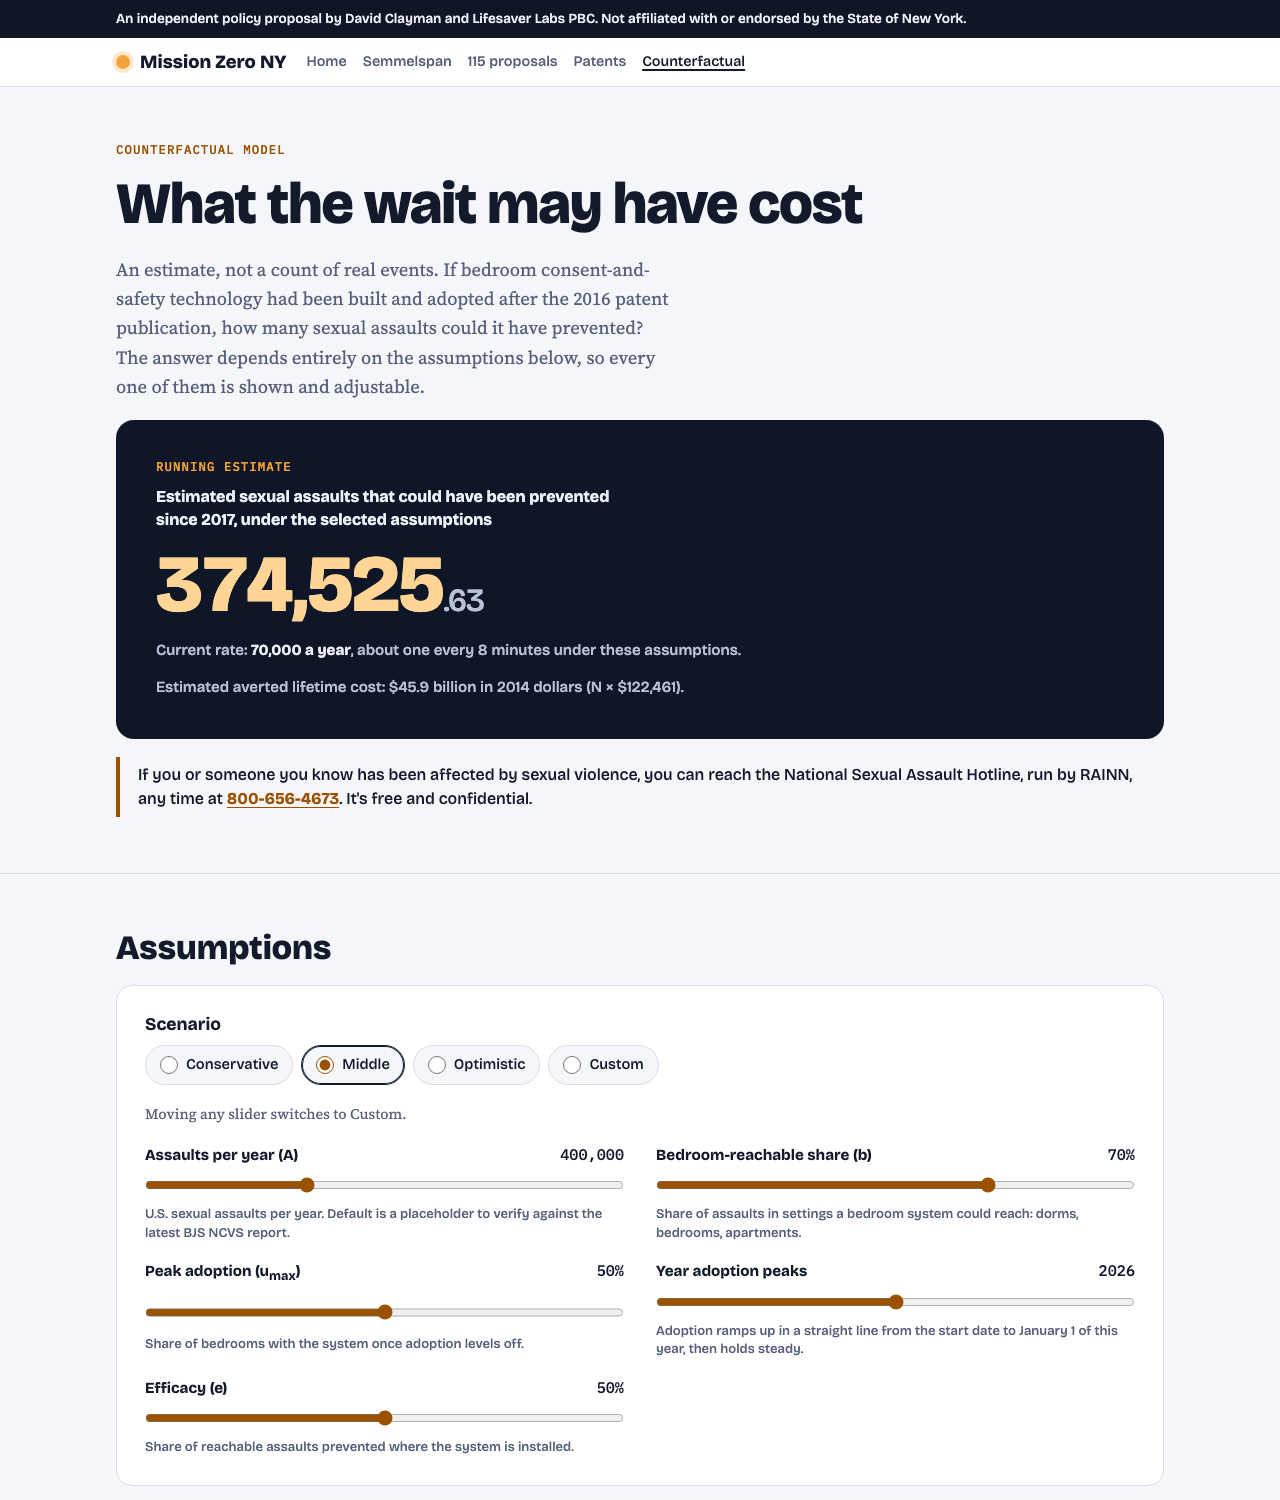
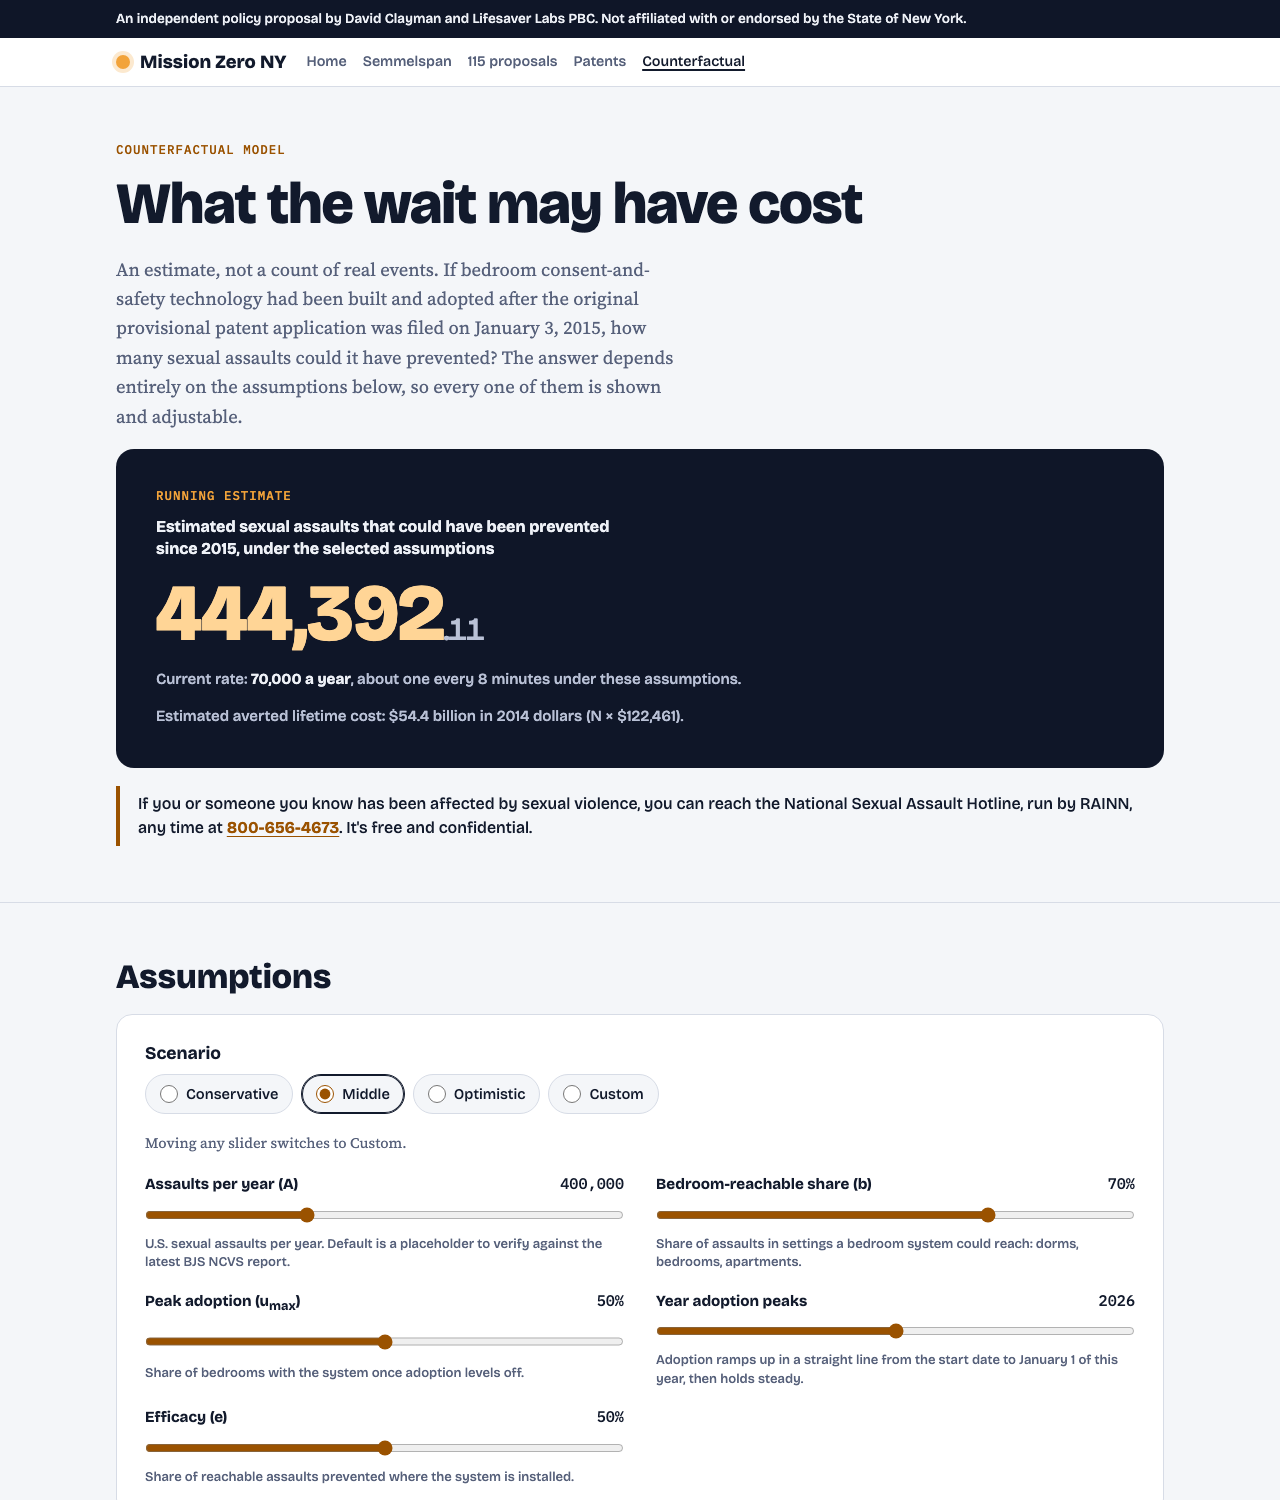
Start the counterfactual at the provisional filing date
Count from January 3, 2015, when U.S. Provisional Application
No. 62/099,456 was filed, instead of January 1, 2017.

diff --git a/counterfactual/index.html b/counterfactual/index.html
@@ -117,7 +117,7 @@ footer{border-top:1px solid var(--line);padding-block:32px;font:400 .85rem/1.5 v
 <section id="estimate"><div class="wrap stack">
   <p class="eyebrow">Counterfactual model</p>
   <h1>What the wait may have cost</h1>
-  <p class="lede">An estimate, not a count of real events. If bedroom consent-and-safety technology had been built and adopted after the 2016 patent publication, how many sexual assaults could it have prevented? The answer depends entirely on the assumptions below, so every one of them is shown and adjustable.</p>
+  <p class="lede">An estimate, not a count of real events. If bedroom consent-and-safety technology had been built and adopted after the original provisional patent application was filed on January 3, 2015, how many sexual assaults could it have prevented? The answer depends entirely on the assumptions below, so every one of them is shown and adjustable.</p>
 
   <div class="night" role="group" aria-labelledby="count-label">
     <p class="eyebrow">Running estimate</p>
@@ -208,7 +208,7 @@ footer{border-top:1px solid var(--line);padding-block:32px;font:400 .85rem/1.5 v
   <ul class="plain col">
     <li><b>Assaults per year (A):</b> <span id="src-A"></span></li>
     <li><b>Lifetime cost per victim:</b> $122,461 in 2014 dollars. Peterson C, DeGue S, Florence C, Lokey CN. Lifetime Economic Burden of Rape Among U.S. Adults. <i>American Journal of Preventive Medicine</i>. 2017;52(6):691–701 (CDC).</li>
-    <li><b>Start of the counterfactual:</b> U.S. Pub. No. 2016/0196735 A1, published <span id="src-pub"></span>. The estimate counts from <span id="src-start"></span>.</li>
+    <li><b>Start of the counterfactual:</b> the estimate counts from <span id="src-start"></span>, when <span id="src-prov"></span> was filed. The application was later published as U.S. Pub. No. 2016/0196735 A1 on <span id="src-pub"></span>.</li>
     <li><b>Scenario values (b, u<sub>max</sub>, e):</b> modeling assumptions, not measured values.</li>
   </ul>
 </div></section>
@@ -241,6 +241,7 @@ const longDate = (d) => new Date(toMs(d)).toLocaleDateString('en-US', { timeZone
 
 $('start-year').textContent = startYear;
 $('src-start').textContent = longDate(CONFIG.START);
+$('src-prov').textContent = CONFIG.PROVISIONAL_APP;
 $('src-pub').textContent = longDate(CONFIG.PUBLICATION_DATE) + (CONFIG.PUBLICATION_DATE_CONFIRMED ? '' : ' (date to be confirmed)');
 if (CONFIG.A_SOURCE_URL) {
   $('src-A').innerHTML = '';

diff --git a/counterfactual/model.js b/counterfactual/model.js
@@ -14,12 +14,16 @@ export const CONFIG = {
   A_LABEL: 'Placeholder: verify against the latest BJS NCVS report',
   A_SOURCE_URL: '', // e.g. the BJS "Criminal Victimization" report URL
 
-  // Publication of U.S. Pub. No. 2016/0196735 A1. PLACEHOLDER: confirm.
+  // Original provisional application, U.S. 62/099,456, filed January 3, 2015.
+  PROVISIONAL_APP: 'U.S. Provisional Application No. 62/099,456',
+  PROVISIONAL_FILED: '2015-01-03',
+
+  // Later publication of U.S. Pub. No. 2016/0196735 A1. PLACEHOLDER: confirm.
   PUBLICATION_DATE: '2016-07-07',
   PUBLICATION_DATE_CONFIRMED: false,
 
-  // When the counterfactual starts counting.
-  START: '2017-01-01',
+  // When the counterfactual starts counting: the provisional filing date.
+  START: '2015-01-03',
 
   // Lifetime cost per rape victim, 2014 dollars (CDC: Peterson et al. 2017,
   // Am J Prev Med 52(6):691–701).

diff --git a/counterfactual/model.test.js b/counterfactual/model.test.js
@@ -91,9 +91,16 @@ test('ramp end at or before START means full adoption from START', () => {
   close(prevented(t, params), CONFIG.A * 0.7 * 0.5 * 0.5 * ((t - toMs(CONFIG.START)) / YEAR_MS));
 });
 
-test('sanity: Middle total in late 2026 is in the hundreds of thousands', () => {
+test('sanity: Middle total in late 2026 matches a hand calculation', () => {
+  // Ramp Jan 3, 2015 to Jan 1, 2026 (~11 years), then ~0.85 years flat:
+  // 400,000 × 0.7 × 0.5 × 0.5 × (11/2 + 0.85) ≈ 444,000.
   const n = prevented('2026-11-07', middle);
-  assert.ok(n > 300000 && n < 450000, String(n));
+  assert.ok(n > 420000 && n < 470000, String(n));
+});
+
+test('counting starts at the provisional filing date', () => {
+  assert.equal(CONFIG.START, CONFIG.PROVISIONAL_FILED);
+  assert.equal(CONFIG.START, '2015-01-03');
 });
 
 test('averted cost uses the per-victim figure', () => {
